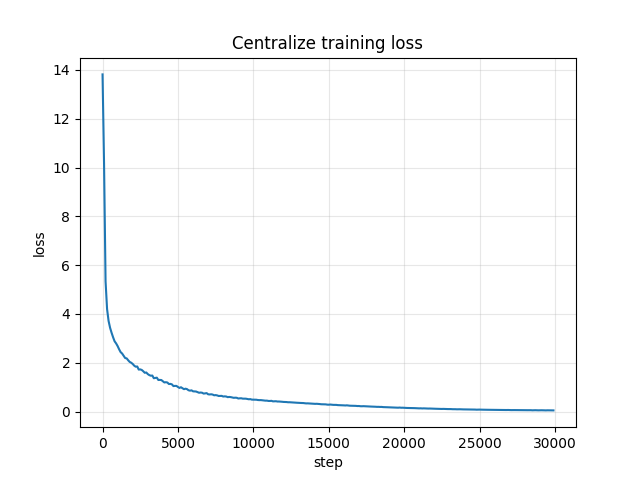
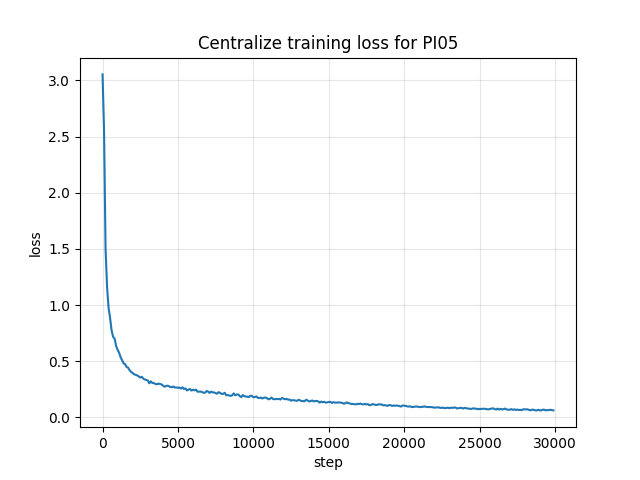
update the flwr config for pi0.5

diff --git a/src/openpi/training/config.py b/src/openpi/training/config.py
@@ -1172,6 +1172,50 @@ _CONFIGS = [
         batch_size=16,
     ),
 
+    # pi05 federated learning config (0918) based on pi0_libero_0813_fl and pi05 central demo.
+    TrainConfig(
+        name="pi05_libero_0918_fl",
+        model=pi0_config.Pi0Config(
+            pi05=True,
+            action_dim=7,
+            action_horizon=10,
+            paligemma_variant="gemma_2b_lora",
+            action_expert_variant="gemma_300m_lora",
+            max_token_len=180,
+        ),
+        data=LeRobotLiberoDataConfigWithAug(
+            repo_id="hw3579/libero_state_7_crop",
+            base_config=DataConfig(prompt_from_task=True),
+            enable_image_aug=True,
+            aug_prob=0.8,
+            brightness_range=0.2,
+            contrast_range=(0.8, 1.2),
+            saturation_range=(0.8, 1.2),
+            hue_range=0.05,
+            crop_scale=(0.9, 0.9),
+            crop_ratio=(1.0, 1.0),
+        ),
+        weight_loader=weight_loaders.PartialWeightLoader(
+            "gs://openpi-assets/checkpoints/pi05_base/params",
+            skip_patterns=(
+                "action_in_proj",
+                "action_out_proj",
+                "action_expert",
+                "action_time_mlp_in",
+                "action_time_mlp_out",
+                "state_proj",
+            ),
+        ),
+        # Federated learning typical smaller batch size per client.
+        batch_size=16,
+        num_train_steps=30_000,
+        freeze_filter=pi0_config.Pi0Config(
+            paligemma_variant="gemma_2b_lora", action_expert_variant="gemma_300m_lora"
+        ).get_freeze_filter(),
+        # Turn off EMA for LoRA style finetuning.
+        ema_decay=None,
+    ),
+
 ############# 更新pi05#############
     TrainConfig(
         name="pi05_libero_0915_demo",
@@ -1254,6 +1298,13 @@ _CONFIGS = [
         ).get_freeze_filter(),
         ema_decay=None,
     ),
+
+######################
+#0918 测试进行FL的测试
+###########################
+
+
+
 ]
 
 if len({config.name for config in _CONFIGS}) != len(_CONFIGS):

diff --git a/wandb_plot.py b/wandb_plot.py
@@ -4,11 +4,11 @@ import matplotlib.pyplot as plt
 import wandb
 from wandb import Api
 api = Api()          # 若本机已登录 `wandb login`；否则传入 api_key=...
-run = api.run("yaojiaqihw3579-1/openpi/opcb90yk")
+# run = api.run("yaojiaqihw3579-1/openpi/opcb90yk")
 
 entity = "yaojiaqihw3579-1"
 project = "openpi"
-run_id  = "opcb90yk"
+run_id  = "p81ny608"
 
 run = api.run(f"{entity}/{project}/{run_id}")
 
@@ -23,7 +23,7 @@ plt.figure()
 plt.plot(x, df["loss"])
 plt.xlabel("step")
 plt.ylabel("loss")
-plt.title(f"Centralize training loss")
+plt.title(f"Centralize training loss for PI05")
 plt.grid(True, alpha=0.3)
 # plt.yticks([0, 0.5, 1, 1.5, 2, 2.5, 3])
 # plt.ylim(0, 3)
